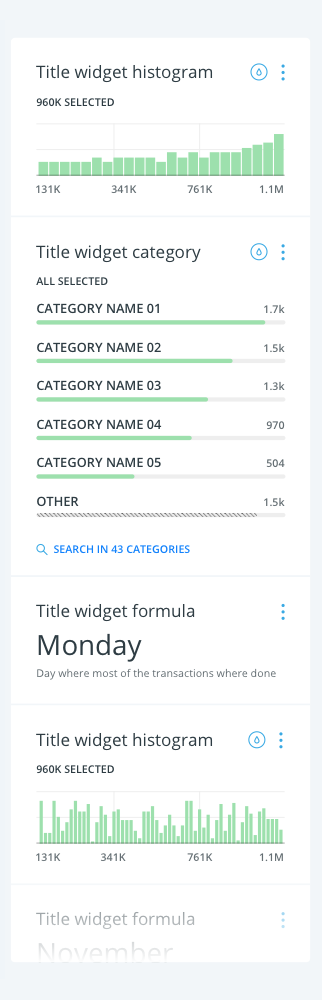
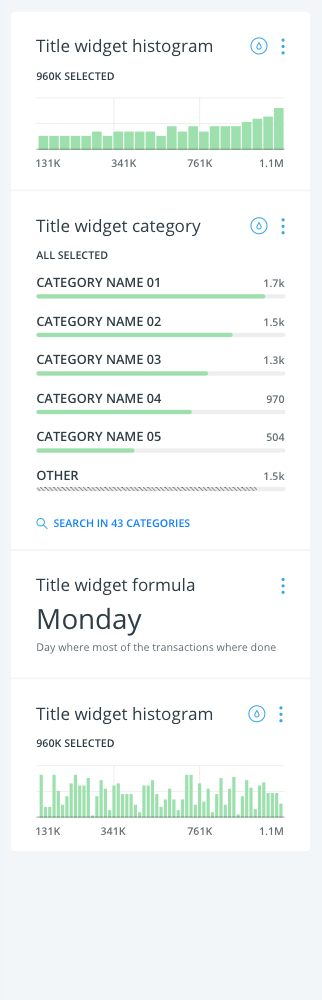
Updates image

diff --git a/app/assets/stylesheets/common/builder-onboarding.css.scss b/app/assets/stylesheets/common/builder-onboarding.css.scss
@@ -127,6 +127,8 @@ $cBackgroundColor: #2E3C43;
   width: $sWidgetsPadWidth;
   height: 100%;
   background: image-url('layout/widgets.png') no-repeat center center;
+  background-color: #F2F6F9;
+  background-position: 50% 0;
   z-index: 0;
 }
 
